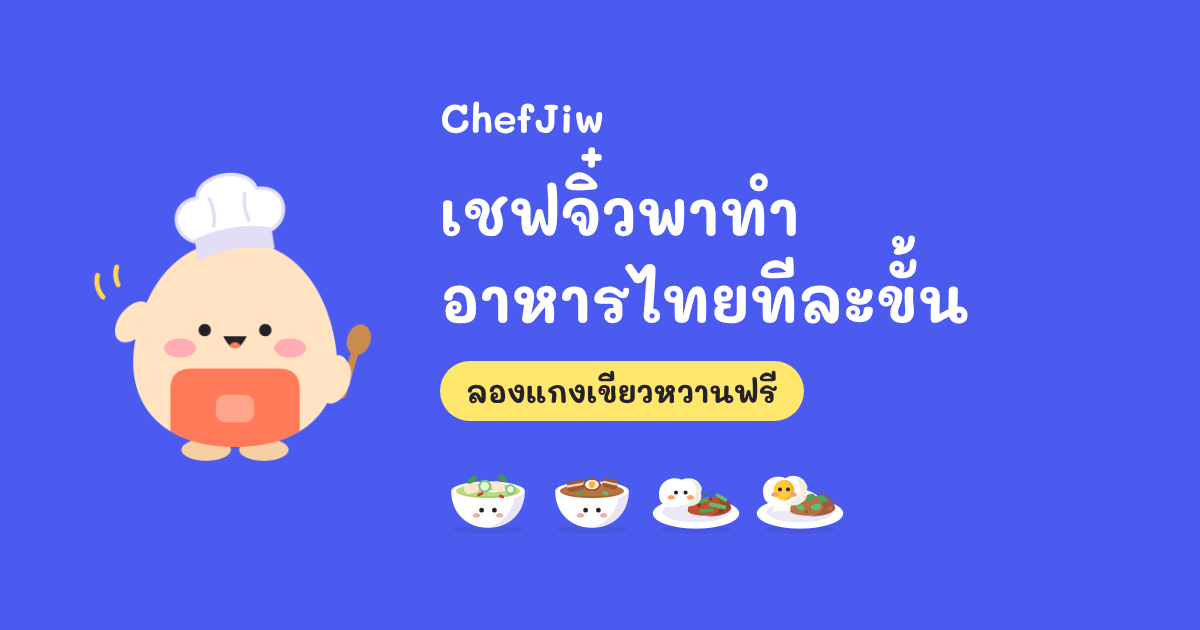
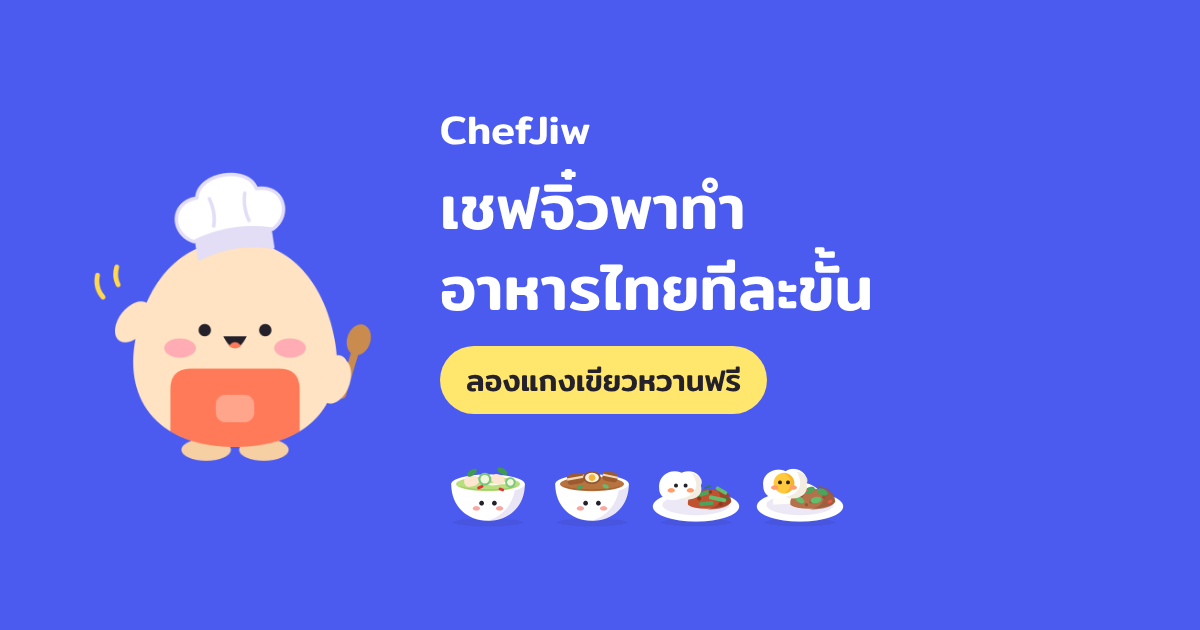
Put the characters in scenes and switch the heading font to Mitr
The home screen header is now the chef team's kitchen with all three
characters, and the Sunday plan header is Pa Ngob's market stall. Scenes
are drawn in the same script as the characters.

Headings move from Mali to Mitr, which places Thai tone marks correctly;
Mali drew the mark in "จิ๋ว" floating high. Big numbers and prices use the
body font because Mitr's zero has a slash.

Claude-Session: https://claude.ai/code/session_01YRit4BDrXmu1xBXH17a6cf

Changed region(s): [[0.37, 0.1508, 0.8325, 0.5127], [0.37, 0.5429, 0.6783, 0.6937], [0.37, 0.7238, 0.7092, 0.8444]]

diff --git a/src/components/ui.tsx b/src/components/ui.tsx
@@ -12,10 +12,12 @@ import { FREE_PER_DAY } from '@/lib/quota';
 import { useSettings } from '@/lib/settings';
 import { fonts, onPastel, onTint, radius, space, touch, type, vivid } from '@/theme/tokens';
 
-type TextVariant = 'hero' | 'title' | 'heading' | 'subheading' | 'body' | 'bodyBold' | 'small' | 'smallBold' | 'step';
+type TextVariant = 'hero' | 'price' | 'title' | 'heading' | 'subheading' | 'body' | 'bodyBold' | 'small' | 'smallBold' | 'step';
 const VARIANT: Record<TextVariant, TextStyle> = {
   // ตัวเลขเด่นของจอ (ราคาต่อมื้อ เวลาที่เหลือ จำนวนจานที่ทำแล้ว)
-  hero: { fontFamily: fonts.heading, fontSize: type.hero, lineHeight: type.hero * 1.2, fontVariant: ['tabular-nums'] },
+  // ตัวเลขใช้ฟอนต์เนื้อความตัวหนา เพราะเลขศูนย์ของฟอนต์หัวข้อ (Mitr) มีขีดทับ
+  hero: { fontFamily: fonts.bodyBold, fontSize: type.hero, lineHeight: type.hero * 1.2, fontVariant: ['tabular-nums'] },
+  price: { fontFamily: fonts.bodyBold, fontSize: type.xl, lineHeight: type.xl * 1.35, fontVariant: ['tabular-nums'] },
   title: { fontFamily: fonts.heading, fontSize: type.xxl, lineHeight: type.xxl * 1.3 },
   heading: { fontFamily: fonts.heading, fontSize: type.xl, lineHeight: type.xl * 1.35 },
   subheading: { fontFamily: fonts.heading, fontSize: type.lg, lineHeight: type.lg * 1.4 },
@@ -94,7 +96,7 @@ export function Float({ children }: { children: ReactNode }) {
 }
 
 /** หัวหน้าจอพร้อมมาสคอต พื้นสีสดประจำหน้า แล้วต่อด้วยแผ่นเนื้อหาสีพื้น */
-export function Screen({ tint, title, subtitle, mascot, onBack, backLabel, right, children, footer }: { tint: string; title: string; subtitle?: string; mascot?: number; onBack?: () => void; backLabel?: string; right?: ReactNode; children: ReactNode; footer?: ReactNode }) {
+export function Screen({ tint, title, subtitle, mascot, scene, onBack, backLabel, right, children, footer }: { tint: string; title: string; subtitle?: string; mascot?: number; scene?: { source: number; ratio: number }; onBack?: () => void; backLabel?: string; right?: ReactNode; children: ReactNode; footer?: ReactNode }) {
   const { colors, isDark } = useSettings();
   const insets = useSafeAreaInsets();
   return (
@@ -108,6 +110,7 @@ export function Screen({ tint, title, subtitle, mascot, onBack, backLabel, right
         {right}
         {mascot && <Float><Image source={mascot} style={s.mascot} contentFit="contain" accessible={false} /></Float>}
       </View>
+      {scene && <Image source={scene.source} style={{ width: '100%', aspectRatio: scene.ratio, marginTop: -space.sm }} contentFit="contain" accessible={false} />}
       <View style={[s.sheet, { backgroundColor: colors.bg }]}>
         <ScrollView contentContainerStyle={{ padding: space.lg, gap: space.md, paddingBottom: footer ? 120 : space.xxl }} keyboardShouldPersistTaps="handled">
           {children}

diff --git a/waitlist/index.html b/waitlist/index.html
@@ -15,14 +15,14 @@
 <meta property="og:image" content="img/og.png">
 <link rel="preconnect" href="https://fonts.googleapis.com">
 <link rel="preconnect" href="https://fonts.gstatic.com" crossorigin>
-<link rel="stylesheet" href="https://fonts.googleapis.com/css2?family=IBM+Plex+Sans+Thai+Looped:wght@400;600;700&family=Mali:wght@600;700&display=swap">
+<link rel="stylesheet" href="https://fonts.googleapis.com/css2?family=IBM+Plex+Sans+Thai+Looped:wght@400;600;700&family=Mitr:wght@500&display=swap">
 <style>
   /* สีและมุมโค้งเดียวกับแอป (src/theme/tokens.ts) */
   :root { --ink: #24212B; --muted: #4F4A5C; --soft: #F5F3FC; --line: #E4E0F2; --hero: #4B5BEF; --yellow: #FFE66D; --note: #FFF3B0; --ai: #E9E6FF; --bad: #8A3B12; --ok: #1E7A45; }
   * { box-sizing: border-box; }
   [hidden] { display: none !important; } /* form ตั้ง display: grid ไว้ ซึ่งจะชนะ hidden ถ้าไม่มีบรรทัดนี้ */
   body { margin: 0; background: #FFFFFF; color: var(--ink); font: 400 17px/1.65 'IBM Plex Sans Thai Looped', system-ui, sans-serif; }
-  h1, h2, h3, .btn, .brand { font-family: 'Mali', 'IBM Plex Sans Thai Looped', system-ui, sans-serif; font-weight: 700; line-height: 1.3; }
+  h1, h2, h3, .btn, .brand { font-family: 'Mitr', 'IBM Plex Sans Thai Looped', system-ui, sans-serif; font-weight: 500; line-height: 1.35; }
   h1 { font-size: 30px; margin: 4px 0 12px; }
   h2 { font-size: 23px; margin: 0 0 12px; }
   h3 { font-size: 18px; margin: 20px 0 8px; }
@@ -59,7 +59,7 @@
   .plates { display: flex; gap: 6px; margin-bottom: 6px; }
   .plates img { width: 56px; height: 56px; }
   .pay { background: #FFFFFF; border-radius: 18px; padding: 14px 16px; }
-  .pp { font: 700 26px/1.3 'Mali', system-ui, sans-serif; letter-spacing: 1px; margin: 0 0 2px; user-select: all; }
+  .pp { font: 500 26px/1.3 'Mitr', system-ui, sans-serif; letter-spacing: 1px; margin: 0 0 2px; user-select: all; }
   form { display: grid; gap: 14px; }
   label { display: grid; gap: 6px; font-weight: 600; }
   .opt { font-weight: 400; color: var(--muted); }

diff --git a/src/app/(tabs)/index.tsx b/src/app/(tabs)/index.tsx
@@ -6,7 +6,7 @@ import { View } from 'react-native';
 import { Icon } from '@/components/icon';
 import { ResumeCard } from '@/components/resume-card';
 import { Button, Card, Float, Pill, Screen, T, Thumb } from '@/components/ui';
-import { IMG, MASCOT } from '@/data/images';
+import { IMG, MASCOT, SCENE } from '@/data/images';
 import { MENU, planShopping } from '@/data/recipes';
 import { BETA } from '@/lib/beta';
 import type { L } from '@/lib/i18n';
@@ -27,7 +27,7 @@ export default function Home() {
   const [line, setLine] = useState(0);
   const pickToday = MENU[0];
   return (
-    <Screen tint={colors.header.home} title={t('home.title')} mascot={MASCOT.hi}>
+    <Screen tint={colors.header.home} title={t('home.title')} scene={SCENE.home}>
       {/* จุดเด่นของจอ: จานแนะนำวันนี้ พร้อมบทพูดของเชฟและปุ่มเริ่มทำ */}
       <Card tone="coral" style={{ gap: space.md }}>
         <View style={{ flexDirection: 'row', alignItems: 'center', gap: space.md }}>
@@ -54,10 +54,8 @@ export default function Home() {
       <Card tone="navy" onPress={() => router.push('/plan')} label={`${t('plan.title')}, ${t('plan.perMeal')} ${price(PER_MEAL)}`} style={{ flexDirection: 'row', alignItems: 'center', gap: space.md }}>
         <View style={{ flex: 1 }}>
           <T v="subheading" tone="onNavy">{t('plan.title')}</T>
-          <View style={{ flexDirection: 'row', alignItems: 'baseline', gap: space.sm }}>
-            <T v="bodyBold" tone="onNavy">{t('plan.perMeal')}</T>
-            <T v="hero" tone="yellow">{price(PER_MEAL)}</T>
-          </View>
+          <T v="smallBold" tone="onNavyMuted">{t('plan.perMeal')}</T>
+          <T v="hero" tone="yellow">{price(PER_MEAL)}</T>
           <T v="small" tone="onNavyMuted">{t('plan.sub')}</T>
         </View>
         <Image source={MASCOT.shop} style={{ width: 104, height: 104 }} contentFit="contain" accessible={false} />

diff --git a/src/app/plan.tsx b/src/app/plan.tsx
@@ -5,7 +5,7 @@ import { Pressable, StyleSheet, View } from 'react-native';
 
 import { Icon } from '@/components/icon';
 import { Button, Card, Screen, T, Thumb } from '@/components/ui';
-import { DISH_TINT, IMG, MASCOT } from '@/data/images';
+import { DISH_TINT, IMG, MASCOT, SCENE } from '@/data/images';
 import { MENU, planShopping, SUNDAY_PLAN } from '@/data/recipes';
 import { useSettings } from '@/lib/settings';
 import { radius, space } from '@/theme/tokens';
@@ -23,12 +23,12 @@ export default function Plan() {
   const back = () => (router.canGoBack() ? router.back() : router.replace('/'));
 
   return (
-    <Screen tint={colors.header.cook} title={t('plan.title')} subtitle={t('plan.sub')} onBack={back} backLabel={t('tab.home')}
+    <Screen tint={colors.header.cook} title={t('plan.title')} subtitle={t('plan.sub')} scene={SCENE.plan} onBack={back} backLabel={t('tab.home')}
       footer={
         <Card tone="accent" style={s.foot}>
           <View style={{ flex: 1 }}>
             <T v="small" tone="pastelMuted">{t('detail.toBuy')}</T>
-            <T v="heading" tone="pastel">{price(toBuy)}</T>
+            <T v="price" tone="pastel">{price(toBuy)}</T>
           </View>
           <Button kind="onPastel" size="cook" label={t('plan.start')} onPress={() => router.push(`/recipe/${first}`)} />
         </Card>

diff --git a/src/app/_layout.tsx b/src/app/_layout.tsx
@@ -1,5 +1,5 @@
 import { IBMPlexSansThaiLooped_400Regular, IBMPlexSansThaiLooped_600SemiBold, IBMPlexSansThaiLooped_700Bold } from '@expo-google-fonts/ibm-plex-sans-thai-looped';
-import { Mali_600SemiBold, Mali_700Bold } from '@expo-google-fonts/mali';
+import { Mitr_500Medium } from '@expo-google-fonts/mitr';
 import { useFonts } from 'expo-font';
 import * as Notifications from 'expo-notifications';
 import { DarkTheme, DefaultTheme, ThemeProvider } from 'expo-router';
@@ -17,7 +17,7 @@ if (Platform.OS !== 'web') Notifications.setNotificationHandler({ handleNotifica
 
 function Root() {
   const { ready, isDark, colors } = useSettings();
-  const [fontsLoaded, fontError] = useFonts({ Mali_600SemiBold, Mali_700Bold, IBMPlexSansThaiLooped_400Regular, IBMPlexSansThaiLooped_600SemiBold, IBMPlexSansThaiLooped_700Bold });
+  const [fontsLoaded, fontError] = useFonts({ Mitr_500Medium, IBMPlexSansThaiLooped_400Regular, IBMPlexSansThaiLooped_600SemiBold, IBMPlexSansThaiLooped_700Bold });
   // ฟอนต์โหลดไม่ได้ก็เปิดแอปด้วยฟอนต์ระบบ ดีกว่าค้างที่หน้าเปิด
   const show = ready && (fontsLoaded || !!fontError);
   useEffect(() => { if (show) SplashScreen.hideAsync(); }, [show]);

diff --git a/src/app/market.tsx b/src/app/market.tsx
@@ -43,7 +43,7 @@ export default function Market() {
         <Card tone="accent" style={s.foot}>
           <View style={{ flex: 1 }}>
             <T v="small" tone="pastelMuted" accessibilityLiveRegion="polite">{cart.length ? t('market.cart', { n: cart.length }) : t('market.none')}</T>
-            <T v="heading" tone="pastel">{local(total, country)}</T>
+            <T v="price" tone="pastel">{local(total, country)}</T>
           </View>
           <Button kind="onPastel" size="cook" label={t('market.find')} onPress={() => router.push('/recipes')} />
         </Card>
@@ -76,7 +76,7 @@ export default function Market() {
               <T v="small" tone="muted">{pick(it.unit)}</T>
             </View>
             <View style={{ alignItems: 'flex-end' }}>
-              <T v="subheading">{local(it.price, country)}</T>
+              <T v="price">{local(it.price, country)}</T>
               {/* ขึ้นลงบอกทั้งลูกศรและคำ ไม่ใช้สีอย่างเดียว */}
               <T v="smallBold" tone={it.change > 0 ? 'warn' : it.change < 0 ? 'success' : 'muted'}>{it.change > 0 ? '↑ ' : it.change < 0 ? '↓ ' : '– '}{ch}</T>
             </View>

diff --git a/src/data/images.ts b/src/data/images.ts
@@ -30,6 +30,12 @@ export const DISH_TINT: Record<string, string> = {
   'green-curry': '#8FDB8A', 'moo-palo': '#A7B0FF', 'prik-khing': '#FFB35C',
 };
 
+// ฉากเต็มความกว้างใต้ชื่อหน้าจอ พื้นโปร่งใส วาดให้เข้ากับสีหัวจอของหน้านั้น
+export const SCENE = {
+  home: { source: require('@/assets/images/chef/scene-home.png'), ratio: 780 / 360 }, // ครัวของทีมเชฟ (หัวจอสีน้ำเงิน)
+  plan: { source: require('@/assets/images/chef/scene-plan.png'), ratio: 780 / 300 }, // แผงตลาดของป้างอบ (หัวจอสีส้ม)
+};
+
 // ทีมเชฟ ตัวละครสามตัว แต่ละตัวดูแลงานของตัวเอง ใช้เฉพาะจังหวะที่ท่านั้นมีความหมาย ไม่แปะทุกหน้า
 export const MASCOT = {
   // เชฟจิ๋ว: พาทำอาหาร

diff --git a/assets/images/chef/src/raster.js b/assets/images/chef/src/raster.js
@@ -2,7 +2,10 @@
 const { chromium } = require('playwright'); const fs = require('fs');
 (async () => { const b = await chromium.launch(); const p = await b.newPage({ viewport: { width: 720, height: 720 } });
   for (const n of fs.readdirSync('.').filter((f) => f.endsWith('.svg')).map((f) => f.slice(0, -4))) {
-    await p.setContent(`<body style="margin:0">${fs.readFileSync(n + '.svg', 'utf8').replace('width="480" height="480"', 'width="720" height="720"')}</body>`);
+    // ตัวละคร 480 ขยาย 1.5 เท่า ฉากขยาย 2 เท่า
+    const svg = fs.readFileSync(n + '.svg', 'utf8'); const [, w, h] = svg.match(/width="(\d+)" height="(\d+)"/).map(Number); const k = w === 480 ? 1.5 : 2;
+    await p.setViewportSize({ width: w * k, height: h * k });
+    await p.setContent(`<body style="margin:0">${svg.replace(`width="${w}" height="${h}"`, `width="${w * k}" height="${h * k}"`)}</body>`);
     await p.screenshot({ path: process.argv[2] + '/' + n + '.png', omitBackground: true });
   }
   await b.close(); console.log('ok'); })();

diff --git a/src/theme/tokens.ts b/src/theme/tokens.ts
@@ -45,8 +45,7 @@ export const type = { sm: 14, md: 16, lg: 18, xl: 20, xxl: 28, hero: 44 } as con
 export const touch = { min: 44, cook: 56 } as const;
 
 export const fonts = {
-  heading: 'Mali_700Bold',
-  headingSemi: 'Mali_600SemiBold',
+  heading: 'Mitr_500Medium', // วางวรรณยุกต์ไทยถูกตำแหน่ง ฟอนต์เดิม (Mali) วางไม้ตรีกับไม้จัตวาลอยสูง เช่นคำว่า จิ๋ว
   body: 'IBMPlexSansThaiLooped_400Regular',
   bodySemi: 'IBMPlexSansThaiLooped_600SemiBold',
   bodyBold: 'IBMPlexSansThaiLooped_700Bold',

diff --git a/src/app/recipe/[id].tsx b/src/app/recipe/[id].tsx
@@ -38,7 +38,7 @@ export default function RecipeDetail() {
         <Card tone="accent" style={s.buy}>
           <View style={{ flex: 1 }}>
             <T v="small" tone="pastelMuted">{t('detail.toBuy')}</T>
-            <T v="heading" tone="pastel">{price(total)}</T>
+            <T v="price" tone="pastel">{price(total)}</T>
           </View>
           <View style={{ alignItems: 'center', gap: space.xs }}>
             <Button kind="onPastel" label={cooking ? t('detail.resume', { n: cooking.step + 1 }) : t('detail.start')} size="cook" onPress={cooking ? () => router.push(`/cook/${r.id}`) : start} />

diff --git a/src/app/(tabs)/me.tsx b/src/app/(tabs)/me.tsx
@@ -44,7 +44,7 @@ export default function Me() {
           <Card key={r.at} style={{ flexDirection: 'row', alignItems: 'center', gap: space.md }}>
             <Thumb source={IMG[m.img]} size={48} />
             <T v="bodyBold" style={{ flex: 1 }}>{pick(m.name)}</T>
-            <T v="subheading">{t('me.stars', { n: r.score.toFixed(1) })}</T>
+            <T v="price">{t('me.stars', { n: r.score.toFixed(1) })}</T>
           </Card>
         );
       })}

diff --git a/src/app/cook/[id].tsx b/src/app/cook/[id].tsx
@@ -305,7 +305,7 @@ function Taste({ r }: { r: Recipe }) {
       </View>
       {score !== null && (
         <Card tone="accent" style={{ alignItems: 'center' }}>
-          <T v="title" tone="pastel" style={{ fontSize: 44, lineHeight: 56 }}>{score.toFixed(1)}</T>
+          <T v="hero" tone="pastel">{score.toFixed(1)}</T>
           <T v="bodyBold" tone="pastel">{t('taste.outOf')}</T>
         </Card>
       )}
